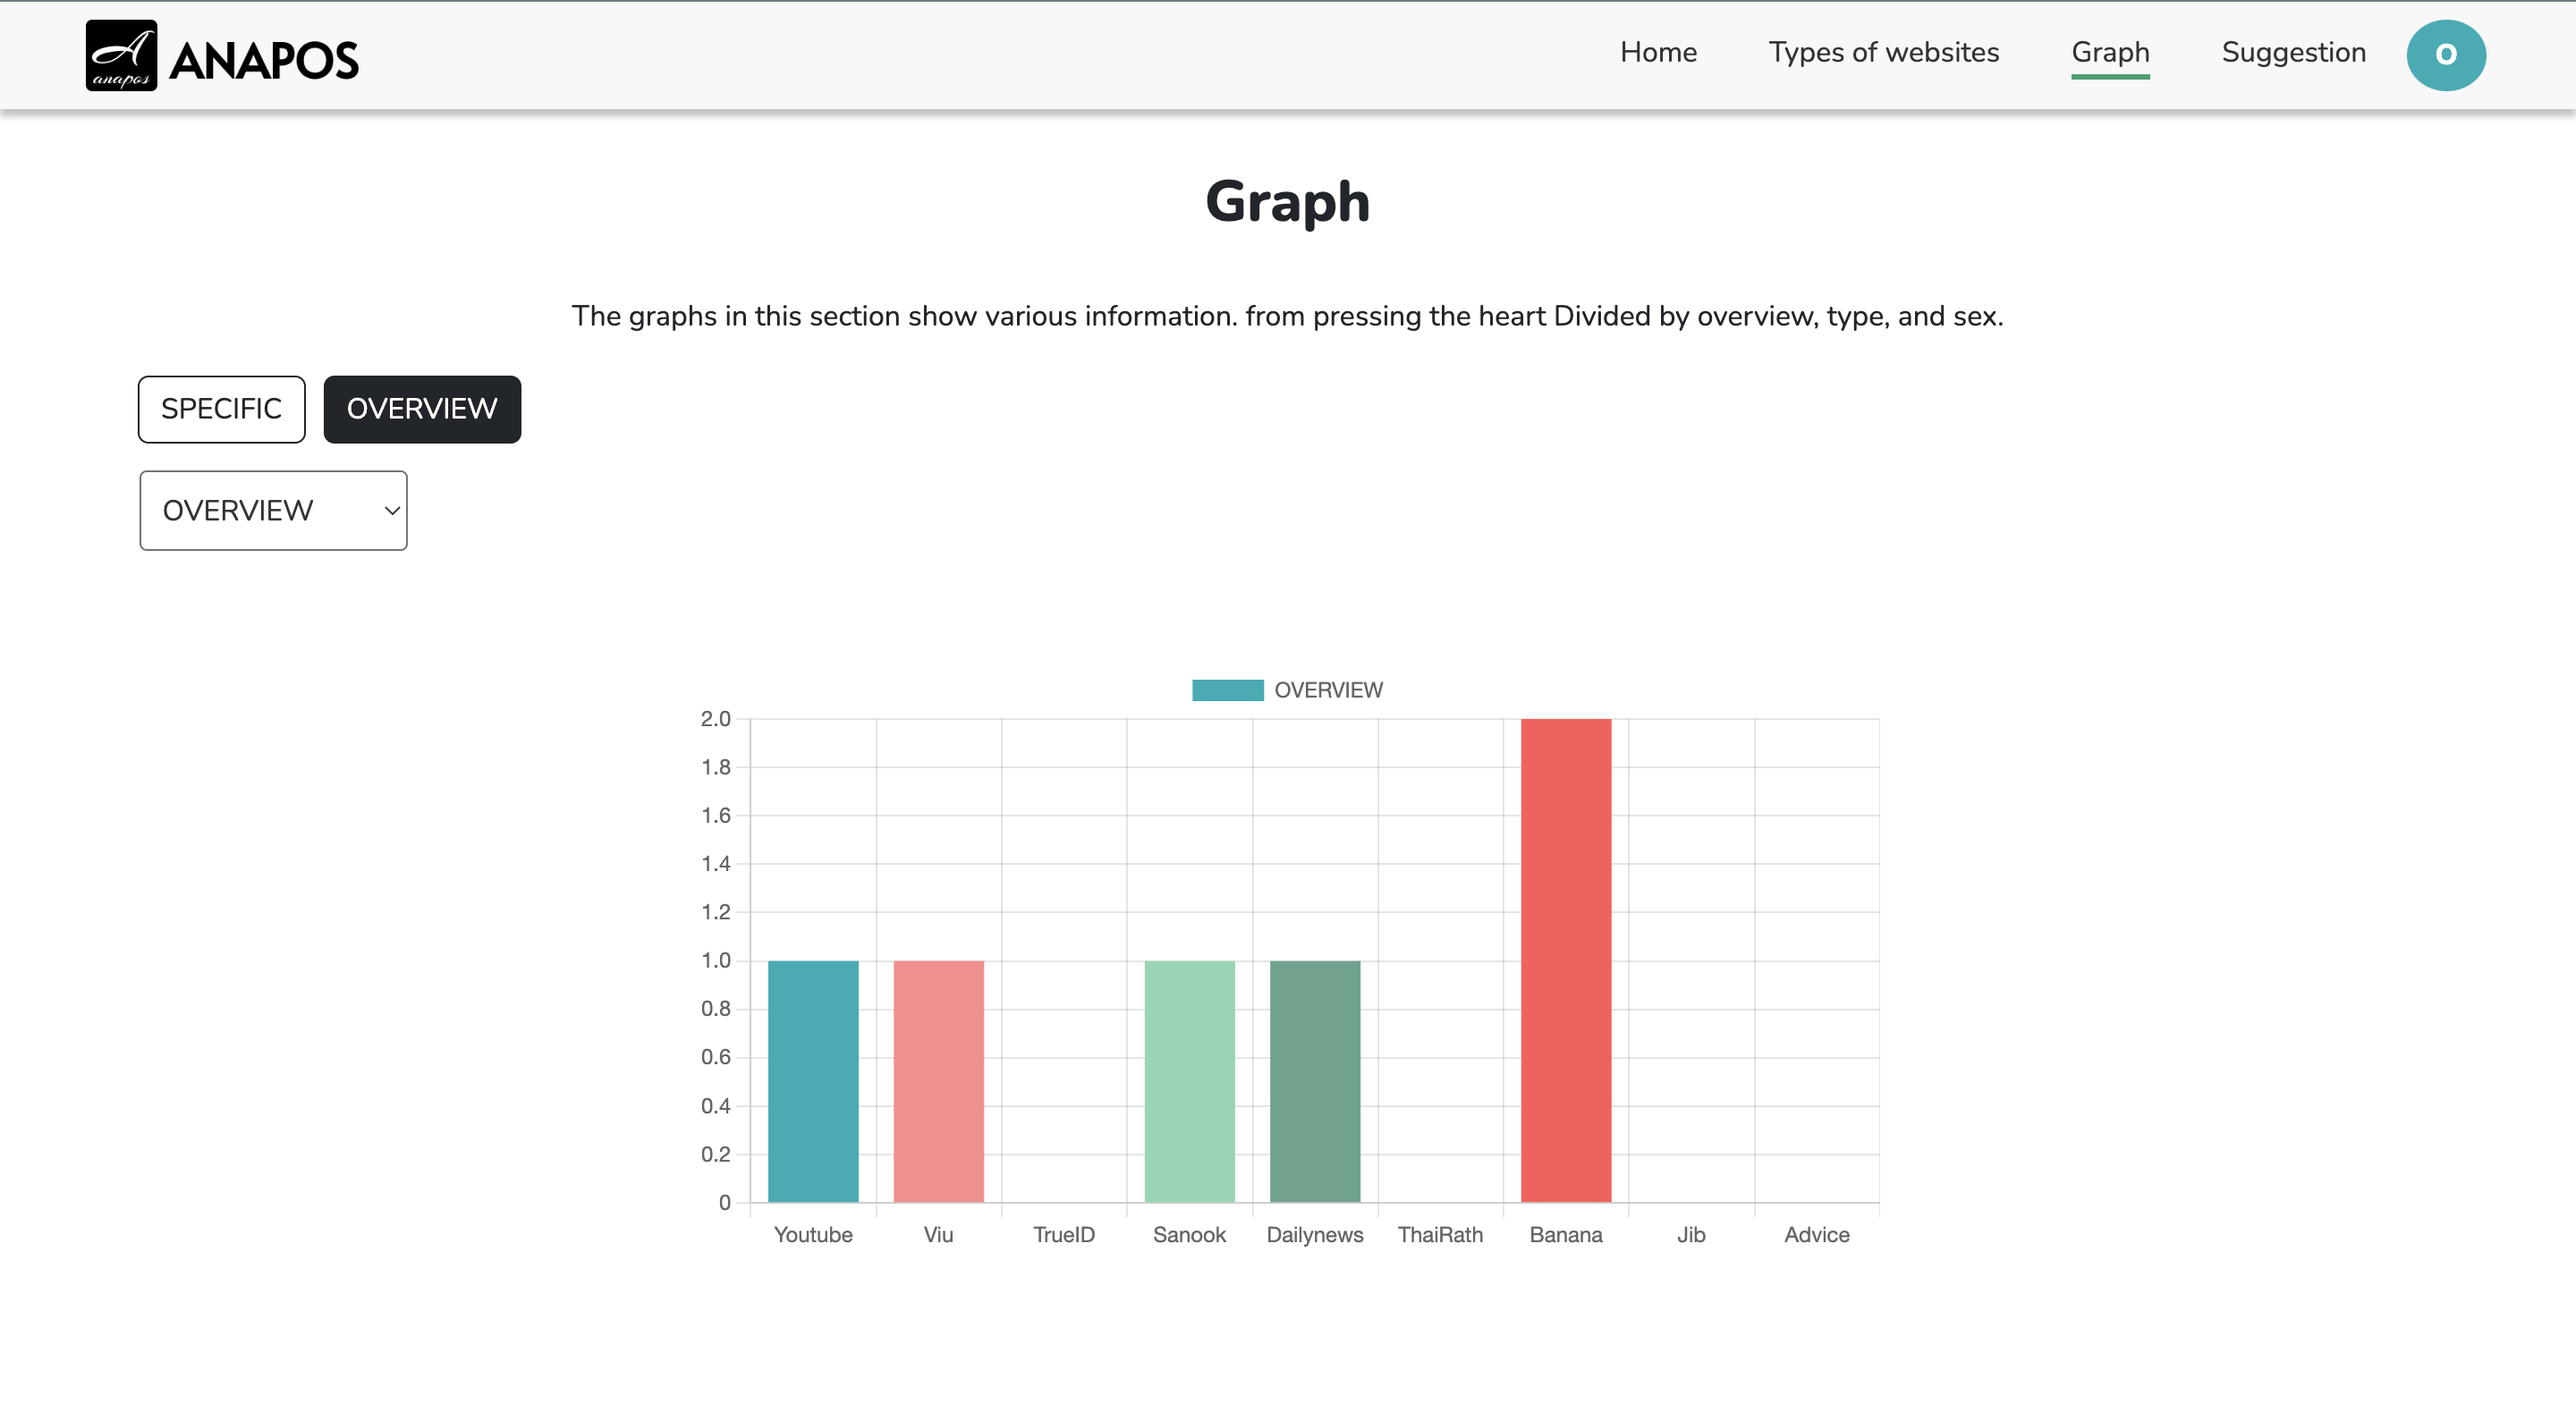
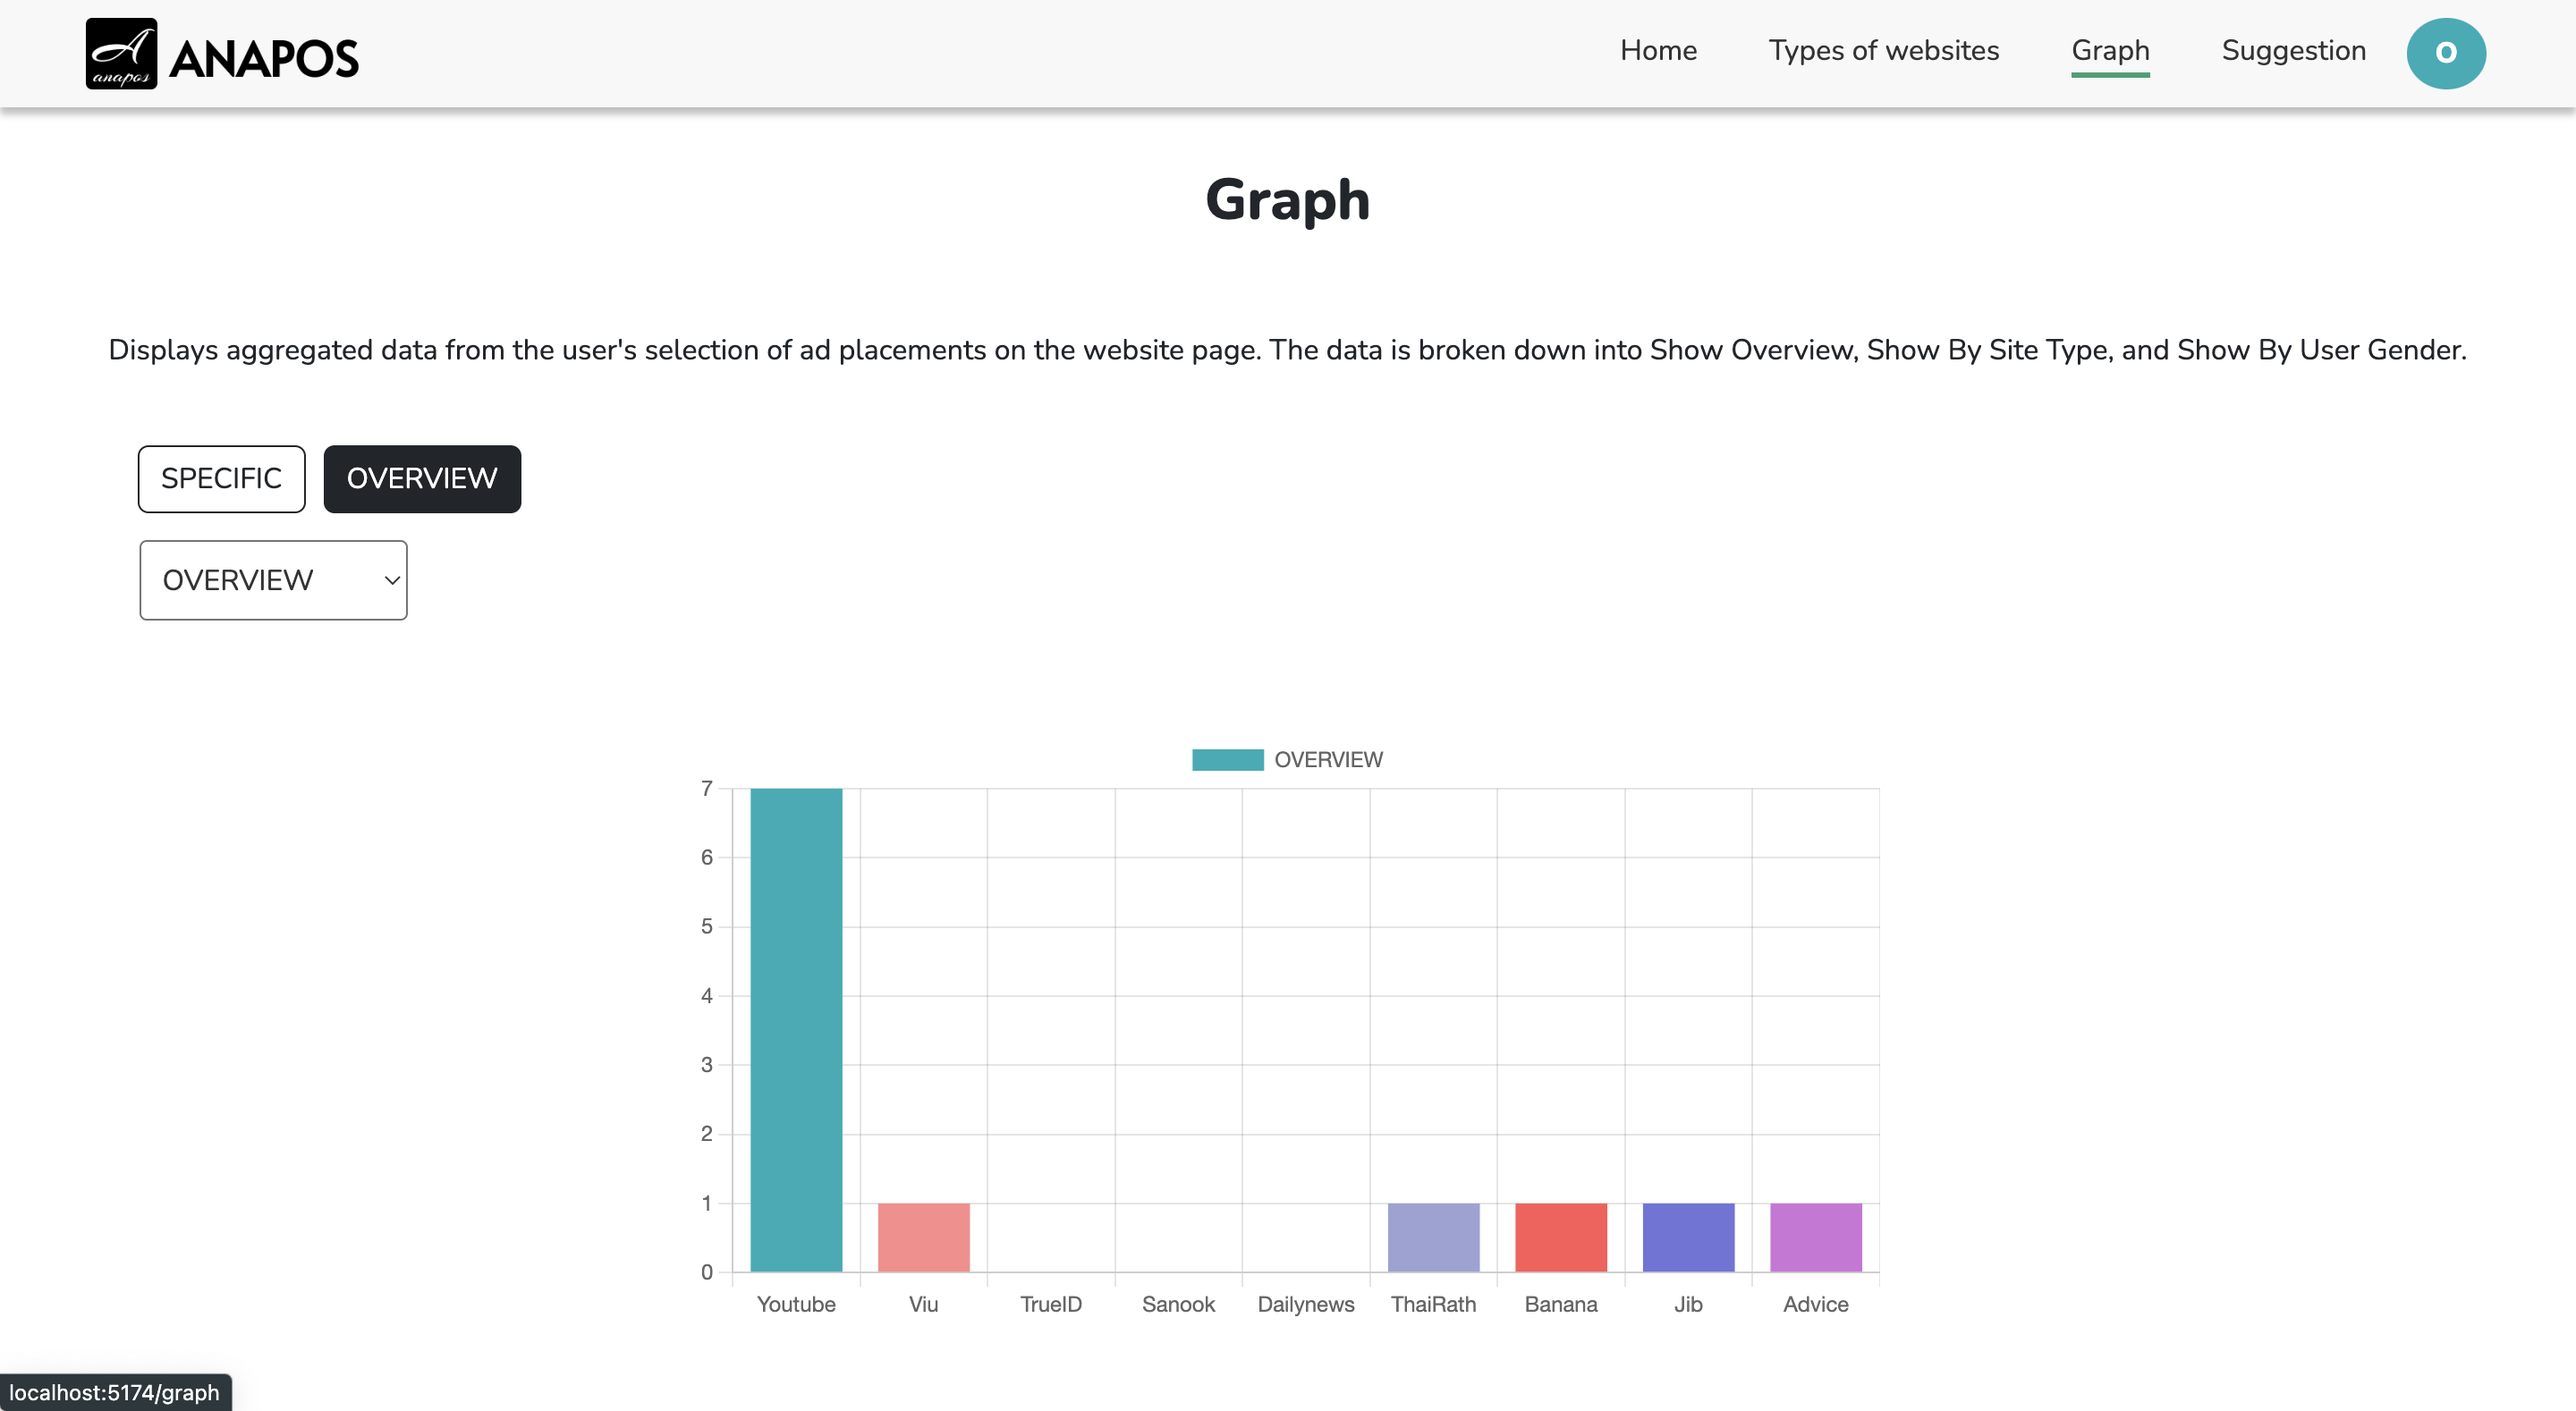
update home text

diff --git a/src/HomePage.css b/src/HomePage.css
@@ -182,11 +182,12 @@
   margin-left: 10px;
   margin-right: 10px;
   color: #F8F8F8;
+  font-size: 14px;
 }
 
 .content-graph-specific img {
   position: relative;
-  margin-top: 15px;
+  margin-top: 20px;
   width: 90%;
   border-radius: 10px;
   border: 3px solid #666d9d;
@@ -217,11 +218,12 @@
   margin-left: 10px;
   margin-right: 10px;
   color: #F8F8F8;
+  font-size: 14px;
 }
 
 .content-graph-overview img {
   position: relative;
-  margin-top: 15px;
+  margin-top: 0;
   width: 90%;
   border-radius: 10px;
   border: 3px solid #2c7368;
@@ -420,7 +422,7 @@ orientation: portrait แนวตั้ง */
   .content-graph-specific {
     flex-basis: 80%;
     max-width: 80%;
-    height: 350px;
+    height: 370px;
   }
 
   .content-graph-specific h3 {
@@ -430,7 +432,7 @@ orientation: portrait แนวตั้ง */
   .content-graph-overview {
     flex-basis: 80%;
     max-width: 80%;
-    height: 350px;
+    height: 370px;
   }
 
   .content-graph-overview h3 {
@@ -500,6 +502,22 @@ orientation: portrait แนวตั้ง */
 
   .box-description {
     top: 10%;
+  }
+
+  .content-graph-specific {
+    flex-basis: 80%;
+    max-width: 80%;
+    height: 350px;
+  }
+
+  .content-graph-specific h3 {
+    font-size: 1.5rem;
+  }
+
+  .content-graph-overview {
+    flex-basis: 80%;
+    max-width: 80%;
+    height: 350px;
   }
 
 }

diff --git a/src/HomePage.jsx b/src/HomePage.jsx
@@ -97,7 +97,7 @@ function HomePage() {
         </div>
         <div class="content-graph-overview">
           <h3>Overview</h3>
-          <p>แสดงข้อมูลต่างๆจากการกดหัวใจของผู้ใช้ มีหัวข้อดังต่อไปนี้ ภาพรวม ประเภทเว็บไซต์ และ เพศ</p>
+          <p>แสดงข้อมูลโดยรวมจากการเลือกตำแหน่งโฆษณาบนหน้าเว็บไซต์ของผู้ใช้ แบ่งข้อมูลเป็น<br/> ภาพรวม ตามประเภทเว็บไซต์ และ ตามเพศของผู้ใช้</p>
           <img src={overviewPage} alt="overviewPage" />
         </div>
       </div>

diff --git a/src/GraphPage.jsx b/src/GraphPage.jsx
@@ -70,7 +70,7 @@ function PageGraph() {
   const textDescription = () => {
     if (mode ==  'overview') {
       return <div>
-        <p className='text-description'>The graphs in this section show various information. from pressing the heart Divided by overview, type, and sex.</p>
+        <p className='text-description'>Displays aggregated data from the user's selection of ad placements on the website page. The data is broken down into Show Overview, Show By Site Type, and Show By User Gender.</p>
       </div>
 
     }

diff --git a/src/PositionPage/SelectPositionPage.css b/src/PositionPage/SelectPositionPage.css
@@ -59,6 +59,7 @@
 .text-description {
   position: relative;
   text-align: center;
+  padding: 20px;
 }
 
 #bt-close {

diff --git a/src/GraphPage.css b/src/GraphPage.css
@@ -80,6 +80,7 @@ body {
 .text-description {
   position: relative;
   text-align: center;
+  padding: 20px;
 }
 
 
